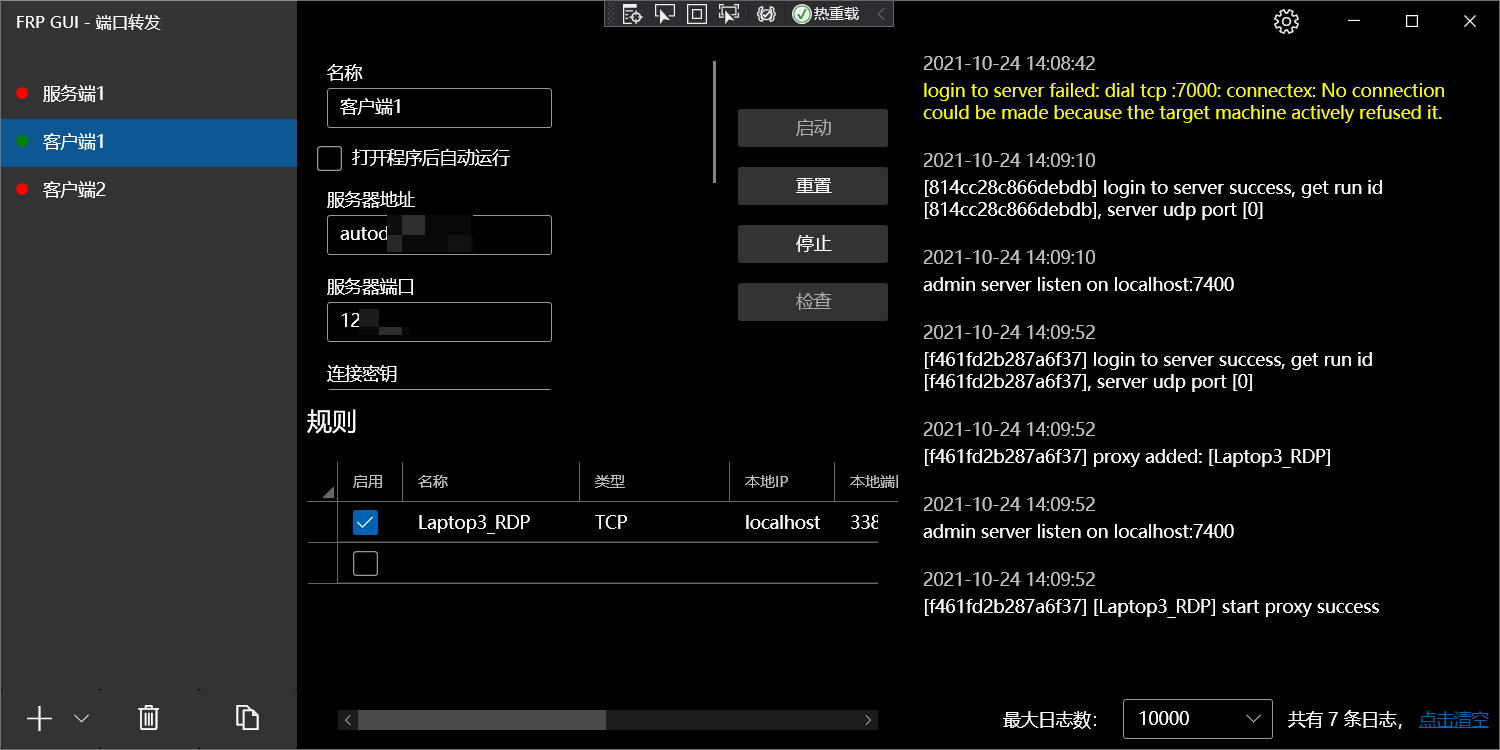
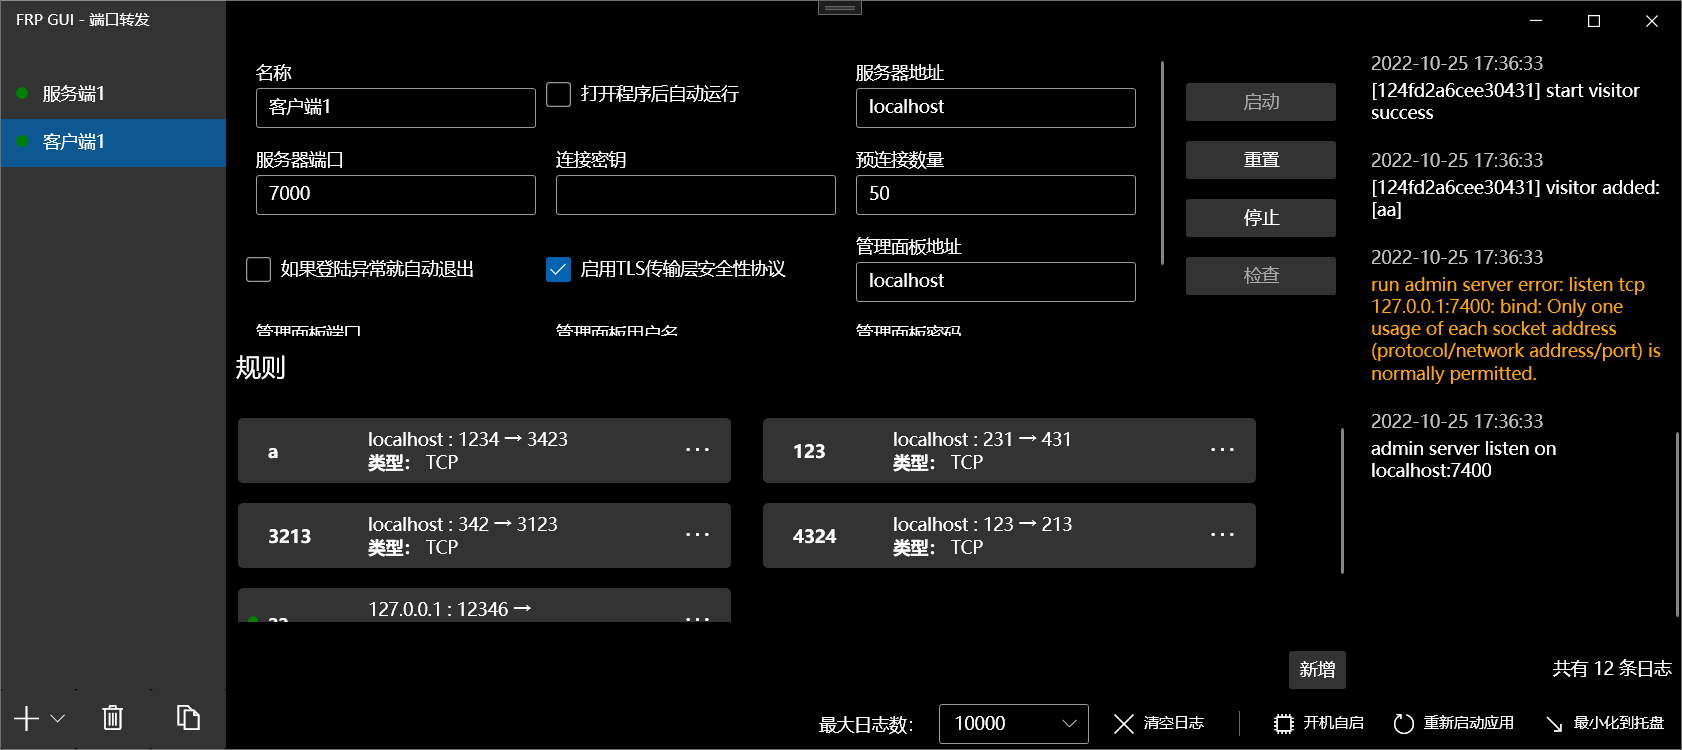
新增TLS协议的支持；优化日志输出，不再输出重复日志

diff --git a/FrpGUI/Panel/ServerPanel.xaml b/FrpGUI/Panel/ServerPanel.xaml
@@ -64,6 +64,10 @@
                     <TextBox
                         ui:ControlHelper.Header="最大连接池数量"
                         Text="{Binding FrpConfig.MaxPoolCount}" />
+
+                    <CheckBox
+                        Content="仅允许TLS传输层安全性协议"
+                        IsChecked="{Binding FrpConfig.TlsOnly}" />
                     <TextBox
                         ui:ControlHelper.Header="控制面板端口号"
                         Text="{Binding FrpConfig.DashBoardPort}" />
@@ -73,7 +77,7 @@
                     <TextBox
                         ui:ControlHelper.Header="控制面板密码"
                         Text="{Binding FrpConfig.DashBoardUsername}" />
-                    <ComboBox
+                    <ComboBox HorizontalAlignment="Stretch"
                         ui:ControlHelper.Header="远程管理本地地址"
                         IsEditable="True"
                         ItemsSource="{Binding IPs}"

diff --git a/FrpGUI/Panel/ClientPanel.xaml b/FrpGUI/Panel/ClientPanel.xaml
@@ -68,6 +68,9 @@
                     <CheckBox
                         Content="如果登陆异常就自动退出"
                         IsChecked="{Binding FrpConfig.LoginFailExit}" />
+                    <CheckBox
+                        Content="启用TLS传输层安全性协议"
+                        IsChecked="{Binding FrpConfig.EnableTls}" />
                     <TextBox
                         ui:ControlHelper.Header="管理面板地址"
                         Text="{Binding FrpConfig.AdminAddress}" />

diff --git a/FrpGUI/MainWindow.xaml.cs b/FrpGUI/MainWindow.xaml.cs
@@ -147,6 +147,18 @@ namespace FrpGUI
             {
                 brush = Brushes.Red;
             }
+
+            if (ViewModel.Logs.Count >= 2)
+            {
+                for (int i = 1; i < 2; i++)
+                {
+                    if (ViewModel.Logs[^i].Content == message)
+                    {
+                        ViewModel.Logs[^i].Time = DateTime.Now;
+                        return;
+                    }
+                }
+            }
             ViewModel.Logs.Add(new Log()
             {
                 Time = DateTime.Now,
@@ -281,11 +293,29 @@ namespace FrpGUI
         }
     }
 
-    public class Log
+    public class Log : INotifyPropertyChanged
     {
-        public DateTime Time { get; set; }
-        public string Content { get; set; }
-        public Brush TypeBrush { get; set; }
+        private DateTime time;
+        public DateTime Time
+        {
+            get => time;
+            set => this.SetValueAndNotify(ref time, value, nameof(Time));
+        }
+        private string content;
+        public string Content
+        {
+            get => content;
+            set => this.SetValueAndNotify(ref content, value, nameof(Content));
+        }
+        private Brush typeBrush;
+        public Brush TypeBrush
+        {
+            get => typeBrush;
+            set => this.SetValueAndNotify(ref typeBrush, value, nameof(TypeBrush));
+        }
+
+
+        public event PropertyChangedEventHandler PropertyChanged;
     }
 
     public class ProcessStatus2BrushConverter : IValueConverter

diff --git a/FrpGUI/Config/ClientConfig.cs b/FrpGUI/Config/ClientConfig.cs
@@ -11,6 +11,7 @@ namespace FrpGUI
         private string adminPassword = "admin";
         private ushort adminPort = 7400;
         private string adminUsername = "admin";
+        private bool enableTls;
         private bool loginFailExit = false;
         private short poolCount = 50;
         private List<Rule> rules = new List<Rule>();
@@ -28,7 +29,6 @@ namespace FrpGUI
             get => adminAddress;
             set => this.SetValueAndNotify(ref adminAddress, value, nameof(AdminAddress));
         }
-
         public string AdminPassword
         {
             get => adminPassword;
@@ -47,6 +47,11 @@ namespace FrpGUI
             set => this.SetValueAndNotify(ref adminUsername, value, nameof(AdminUsername));
         }
 
+        public bool EnableTls
+        {
+            get => enableTls;
+            set => this.SetValueAndNotify(ref enableTls, value, nameof(EnableTls));
+        }
         public bool LoginFailExit
         {
             get => loginFailExit;
@@ -107,6 +112,10 @@ namespace FrpGUI
             if (!string.IsNullOrWhiteSpace(Token))
             {
                 str.Append("token = ").Append(Token).AppendLine();
+            }
+            if(EnableTls)
+            {
+                str.Append("tls_enable = true").AppendLine();
             }
             foreach (var rule in Rules.Where(p => p.Enable && !string.IsNullOrEmpty(p.Name)))
             {

diff --git a/FrpGUI/Config/ServerConfig.cs b/FrpGUI/Config/ServerConfig.cs
@@ -12,6 +12,7 @@ namespace FrpGUI
         private ushort? httpsPort;
         private short maxPoolCount = 100;
         private ushort port = 7000;
+        private bool tlsOnly;
         private string token;
 
         public ServerConfig()
@@ -36,7 +37,6 @@ namespace FrpGUI
             get => dashBoardUsername;
             set => this.SetValueAndNotify(ref dashBoardUsername, value, nameof(DashBoardUsername));
         }
-
         public ushort? HttpPort
         {
             get => httpPort;
@@ -61,6 +61,11 @@ namespace FrpGUI
             set => this.SetValueAndNotify(ref port, value, nameof(Port));
         }
 
+        public bool TlsOnly
+        {
+            get => tlsOnly;
+            set => this.SetValueAndNotify(ref tlsOnly, value, nameof(TlsOnly));
+        }
         public string Token
         {
             get => token;
@@ -89,6 +94,10 @@ namespace FrpGUI
             if (!string.IsNullOrWhiteSpace(Token))
             {
                 str.Append("token = ").Append(Token).AppendLine();
+            }
+            if(TlsOnly)
+            {
+                str.Append("tls_only = true").AppendLine();
             }
             return str.ToString();
         }

diff --git a/FrpGUI/Util/ProcessHelper.cs b/FrpGUI/Util/ProcessHelper.cs
@@ -26,7 +26,12 @@ namespace FrpGUI
 
         public void Start(string type, IToIni obj)
         {
-            (App.Current.MainWindow as MainWindow).AddLogOnMainThread("正在启动" + type, "I");
+            (App.Current.MainWindow as MainWindow).AddLogOnMainThread("正在启动" + type switch
+            {
+                "c" => "客户端",
+                "s" => "服务端",
+                _ => throw new Exception("不支持c和s以外的类型")
+            }, "I"); 
 
             if (frpProcess != null)
             {
